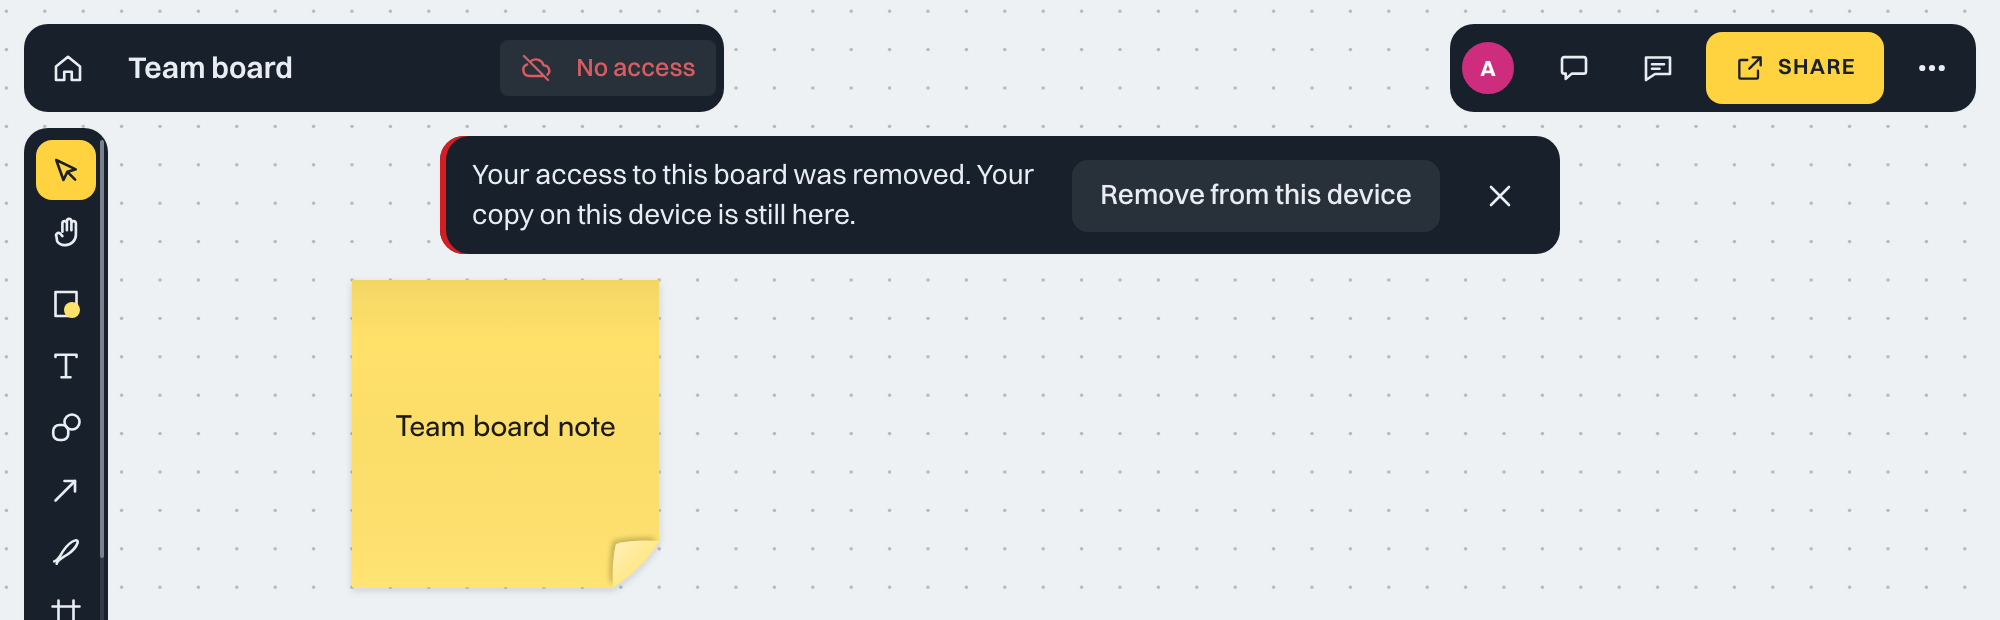
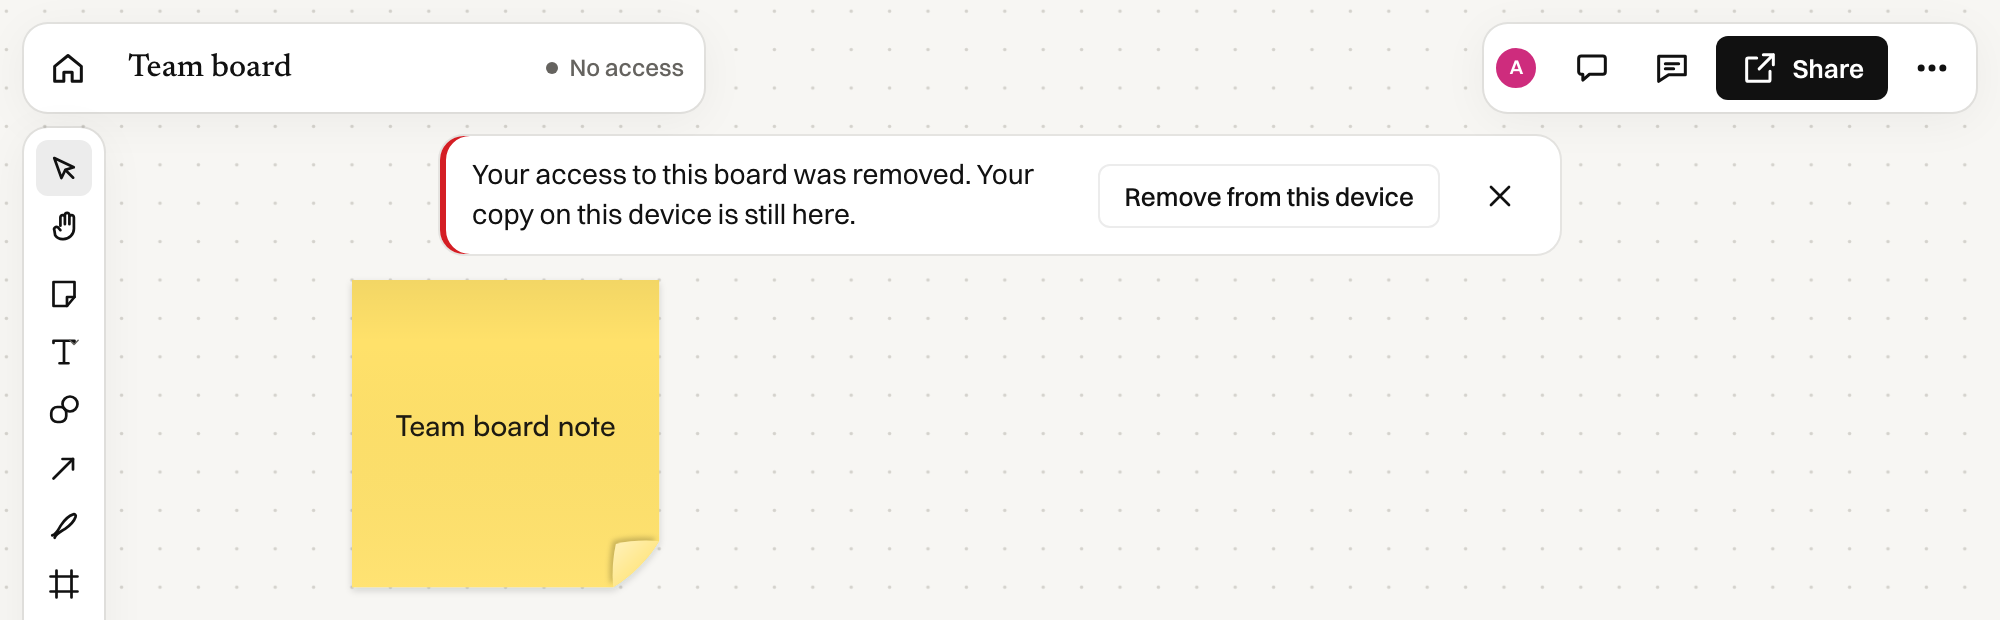
Docs images in the new look: regenerated guide and README images, a hero generator, README fonts and print rows, selectors for the new theme menu and template picker

Changed region(s): [[0.217, 0.2145, 0.806, 0.429], [0.0, 0.0306, 0.372, 1.0], [0.713, 0.0306, 0.992, 0.1839]]

diff --git a/README.md b/README.md
@@ -270,7 +270,7 @@ Screenshots show demo data.
 | Accounts, teams and roles | Email sign-in, workspace and team roles, board sharing, and owner, editor, commenter and viewer access (see [docs/accounts.md](docs/accounts.md)) |
 | Kanban boards | Lanes and cards with labels, owners, due dates, filters, CSV export and warn/block WIP limits (limits are checked in the browser; see [docs/kanban.md](docs/kanban.md) and [the guide](docs/guide/kanban.md)) |
 | Version history | Browse earlier versions of a board, preview one read-only and restore it (board menu, owners and editors). The relay saves snapshots while people edit, before large deletions and when everyone leaves, and anyone can save a named version; a restore is an ordinary edit that syncs to everyone, shows up as a new version and undoes with Ctrl+Z. See [docs/history.md](docs/history.md) |
-| Import/export | `.drift` board files, JSON snapshots, SVG, PNG (2×, real fonts), Markdown summary, Mermaid and kanban cards as CSV; drop files on the board or open them from the home screen |
+| Import/export | `.drift` board files, JSON snapshots, SVG, PNG (2×, real fonts), print or save as PDF (the whole board, the selection, or one page per frame, vector, through the browser's print dialog; see [docs/print.md](docs/print.md)), Markdown summary, Mermaid and kanban cards as CSV; drop files on the board or open them from the home screen |
 | MCP tools | AI agents can read and edit boards, add comments, manage groups and use kanban card tools (see [docs/mcp.md](docs/mcp.md) and [the tool guide](docs/guide/ai-tools.md)) |
 | AI bar | Generate stickies, summarise a board or selection, and cluster stickies into themes. Shown to editors only when enabled with a usable key (see [docs/ai.md](docs/ai.md); hosted AI credits are a later phase, [docs/ai-credits.md](docs/ai-credits.md)) |
 | User guide | Built-in, searchable guide served at `/docs/`; source pages are in [docs/guide](docs/guide/index.md) |
@@ -283,7 +283,7 @@ Native and desktop development (Mac, Windows, Linux, iPhone, Android) is frozen 
 
 ## Fonts and icons
 
-Fontshare fonts are free for personal and commercial use under ITF's Free Font License, which restricts redistributing or serving the font files. Tabula therefore loads fonts only from Fontshare's own servers, caches them in the user's browser for offline use, and stores boards with font names, never font files. The relay never serves fonts. PNG export inlines the fonts temporarily inside the browser to rasterise text; only pixels leave the device.
+Fontshare fonts are free for personal and commercial use under ITF's Free Font License, which restricts redistributing or serving the font files. Tabula therefore loads those fonts only from Fontshare's own servers, caches them in the user's browser for offline use, and stores boards with font names, never font files. The relay never serves Fontshare fonts. The one font Tabula bundles is Newsreader, the serif used for titles (SIL Open Font License 1.1, a variable Latin subset served from the app itself, see [the third-party notices](docs/third-party-notices.md)). PNG export inlines the fonts temporarily inside the browser to rasterise text; only pixels leave the device.
 
 Icon sets come from [Iconify's open data](https://github.com/iconify/icon-sets) (`@iconify/json`, a build-time dependency) and carry their own licences. The build hosts only sets under CC0, Unlicense, 0BSD, MIT, ISC, Apache-2.0, BSD, OFL-1.1 and CC BY 3.0/4.0; sets Iconify marks hidden, the unmaintained Font Awesome 6 sets and every other licence (NonCommercial, ShareAlike, GPL and the like) are left out. The picker shows each set's licence, flags sets that require attribution and notes that logos are trademarks of their owners. The credits dialog lists every set, and `dist/icons/LICENSES.txt` is the same list as text.
 

diff --git a/docs/visual-check.md b/docs/visual-check.md
@@ -150,9 +150,10 @@ Each shot also checks that the page is not wider than the window and that no scr
 `npm run docs:images` re-creates the screenshots of the README and the user guide in `docs/images` (the user guide serves its screenshots from the same folder, so there is one copy) from the built app. It starts throwaway open-mode and accounts-mode relays on OS-assigned loopback ports, seeds fixed demo data (the board objects, a Design team with Maya and Ana, Sam in a second team, the boards and shares the shots need) and takes each image in a fresh headless context at 2x with the clock, locale, zone and theme fixed. The Chat tray uses a separate accounts-mode relay so enabling chat cannot change the other images. Its synthetic user IDs, messages, replies, mention, reaction and object links are fixed in real chat storage; retention is disabled in that throwaway workspace so the fixed dates never expire. The Backups tab uses a fixed list response with one protected backup and two unreadable backups; it needs no storage bucket or encryption key.
 
 ```bash
-npm run docs:images                                  # all sixteen, into docs/images
+npm run docs:images                                  # the sixteen guide images, into docs/images (the README hero is `npm run docs:hero`)
 npm run docs:images -- --only share-roles,signin     # some of them
 npm run docs:images -- --out /tmp/shots --no-build   # elsewhere, reusing dist/
+npm run docs:hero                                   # docs/images/readme-hero.png (the retro board and the Q4 delivery kanban side by side)
 ```
 
 The images are: `shapes-panel`, `quick-actions`, `text-options`, `locked-badge`, `themes-menu-matrix`, `theme-ayu`, `business-model-canvas` (written as `template-business-model-canvas.png`), `signin`, `teams-home`, `access-removed`, `share-roles`, `admin-backups`, `chat-tray`, `chat-page`, `kanban-card-dialog` and `layers-panel`. Change the code in `scripts/docs-images.mjs` when the UI moves; look at every image after a run, because a crop that was right can pick up a new bar or badge. Fontshare fonts are fetched once per run; offline, the shots use the system fonts.

diff --git a/changelog.d/new-look-docs-images.md b/changelog.d/new-look-docs-images.md
@@ -1,0 +1,3 @@
+section: Changed
+
+- The screenshots in the README and the user guide show the new look.
